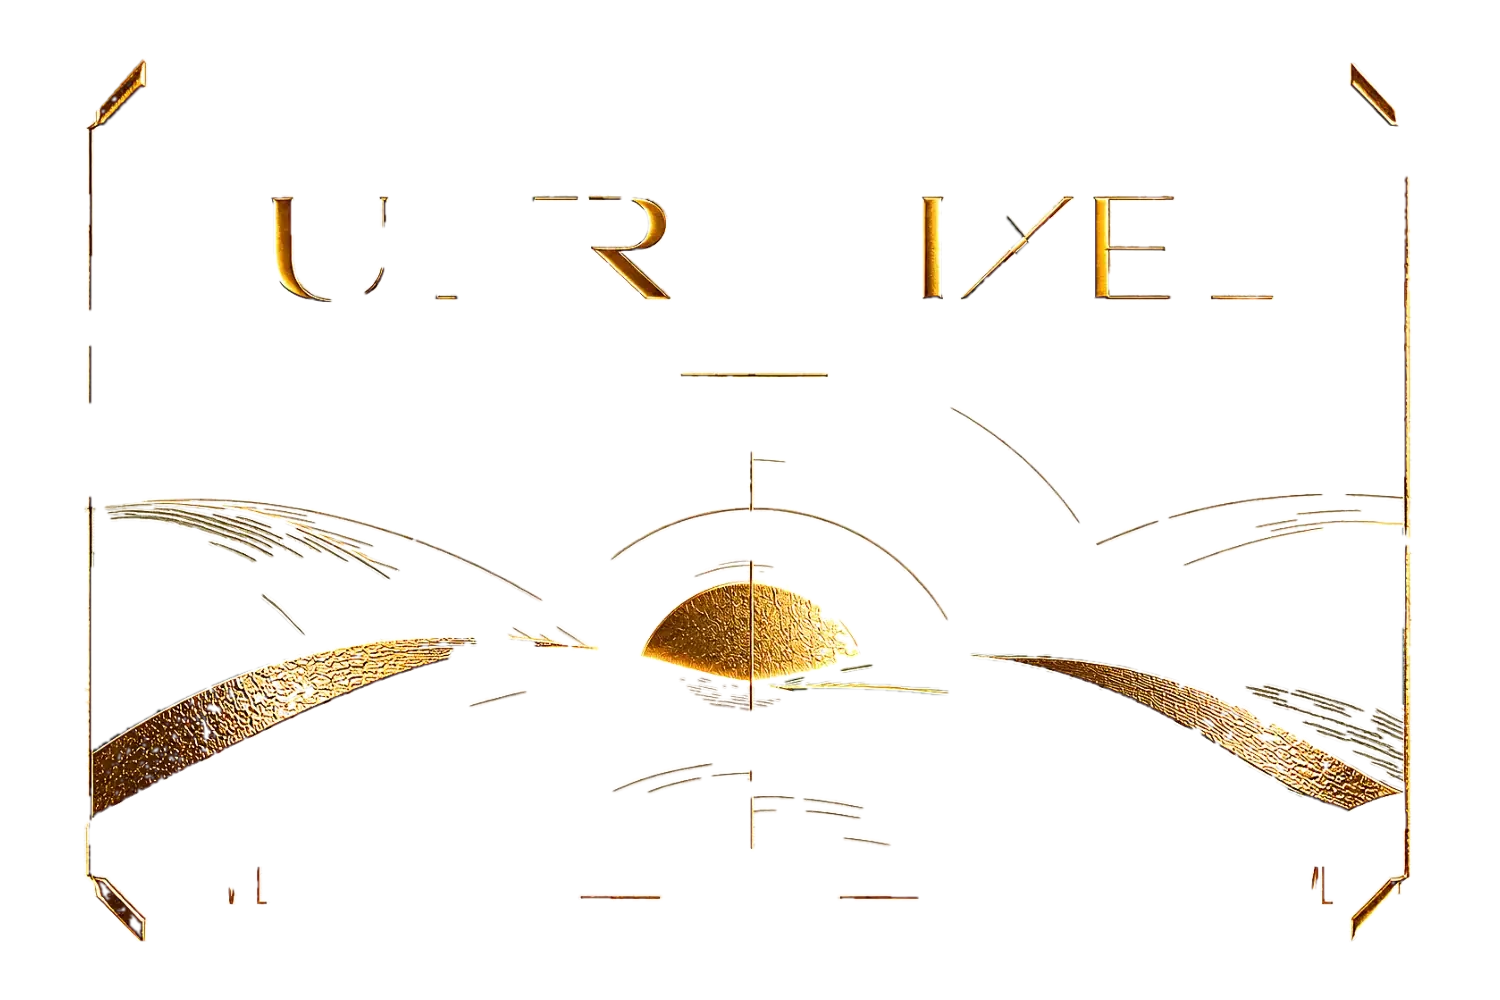
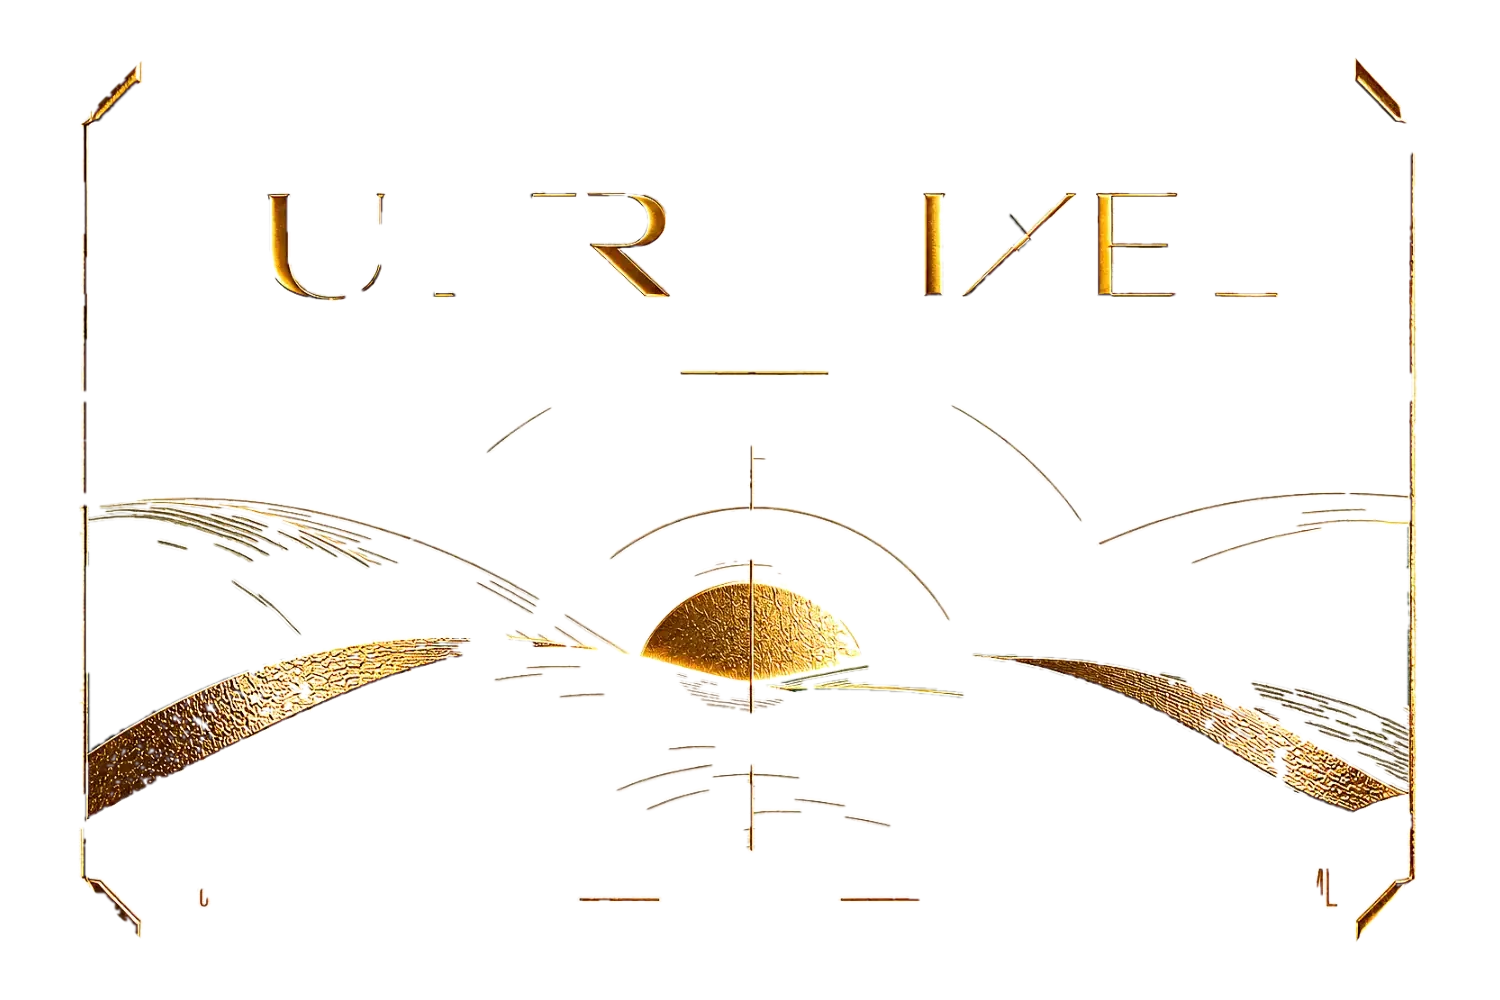
Geometric die for the home label: true rectangle with equal 45-degree chamfers
Claude-Session: https://claude.ai/code/session_01BG1W2YxVwjxrMvYbMgt4bm

diff --git a/de/index.html b/de/index.html
@@ -155,7 +155,7 @@
     <div class="over relit" id="relit"></div>
     <div class="over curve" id="curve"></div>
     <img class="over" id="matrix" data-src="/assets/matrix.webp" alt="" style="opacity:0">
-    <svg class="over" id="die" viewBox="0 0 1500 1000" style="overflow:visible;opacity:0;filter:drop-shadow(0 0 2px #1B2FBF) drop-shadow(0 0 9px #1B2FBF)"><path id="diep" pathLength="1" d="M76,127 L75,237 L70,256 L70,293 L75,299 L71,306 L70,322 L71,383 L75,386 L75,397 L71,399 L75,418 L71,420 L70,477 L76,506 L75,531 L70,568 L70,625 L75,634 L70,666 L75,721 L75,873 L137,940 L1349,941 L1358,935 L1396,893 L1403,893 L1406,896 L1407,891 L1425,877 L1425,724 L1429,356 L1425,285 L1428,280 L1424,274 L1423,133 L1406,112 L1396,110 L1354,63 L1052,63 L143,58 L101,107 L96,111 L88,113 Z" fill="none" stroke="#ffffff" stroke-width="3" stroke-linecap="round" vector-effect="non-scaling-stroke" stroke-dasharray="1" stroke-dashoffset="1"/></svg>
+    <svg class="over" id="die" viewBox="0 0 1500 1000" style="overflow:visible;opacity:0;filter:drop-shadow(0 0 2px #1B2FBF) drop-shadow(0 0 9px #1B2FBF)"><path id="diep" pathLength="1" d="M70,132 L70,867 L144,941 L1355,941 L1429,867 L1429,132 L1355,58 L144,58 Z" fill="none" stroke="#ffffff" stroke-width="3" stroke-linecap="round" vector-effect="non-scaling-stroke" stroke-dasharray="1" stroke-dashoffset="1"/></svg>
     <div id="stations"></div>
     <div class="ribbon" id="ribbon" style="background:linear-gradient(100deg,#7A5A1C,#C99A2E 25%,#FFF3C4 48%,#C99A2E 62%,#7A5A1C)"></div>
     <div class="sq" id="sq"></div>

diff --git a/en/index.html b/en/index.html
@@ -155,7 +155,7 @@
     <div class="over relit" id="relit"></div>
     <div class="over curve" id="curve"></div>
     <img class="over" id="matrix" data-src="/assets/matrix.webp" alt="" style="opacity:0">
-    <svg class="over" id="die" viewBox="0 0 1500 1000" style="overflow:visible;opacity:0;filter:drop-shadow(0 0 2px #1B2FBF) drop-shadow(0 0 9px #1B2FBF)"><path id="diep" pathLength="1" d="M76,127 L75,237 L70,256 L70,293 L75,299 L71,306 L70,322 L71,383 L75,386 L75,397 L71,399 L75,418 L71,420 L70,477 L76,506 L75,531 L70,568 L70,625 L75,634 L70,666 L75,721 L75,873 L137,940 L1349,941 L1358,935 L1396,893 L1403,893 L1406,896 L1407,891 L1425,877 L1425,724 L1429,356 L1425,285 L1428,280 L1424,274 L1423,133 L1406,112 L1396,110 L1354,63 L1052,63 L143,58 L101,107 L96,111 L88,113 Z" fill="none" stroke="#ffffff" stroke-width="3" stroke-linecap="round" vector-effect="non-scaling-stroke" stroke-dasharray="1" stroke-dashoffset="1"/></svg>
+    <svg class="over" id="die" viewBox="0 0 1500 1000" style="overflow:visible;opacity:0;filter:drop-shadow(0 0 2px #1B2FBF) drop-shadow(0 0 9px #1B2FBF)"><path id="diep" pathLength="1" d="M70,132 L70,867 L144,941 L1355,941 L1429,867 L1429,132 L1355,58 L144,58 Z" fill="none" stroke="#ffffff" stroke-width="3" stroke-linecap="round" vector-effect="non-scaling-stroke" stroke-dasharray="1" stroke-dashoffset="1"/></svg>
     <div id="stations"></div>
     <div class="ribbon" id="ribbon" style="background:linear-gradient(100deg,#7A5A1C,#C99A2E 25%,#FFF3C4 48%,#C99A2E 62%,#7A5A1C)"></div>
     <div class="sq" id="sq"></div>

diff --git a/fr/index.html b/fr/index.html
@@ -155,7 +155,7 @@
     <div class="over relit" id="relit"></div>
     <div class="over curve" id="curve"></div>
     <img class="over" id="matrix" data-src="/assets/matrix.webp" alt="" style="opacity:0">
-    <svg class="over" id="die" viewBox="0 0 1500 1000" style="overflow:visible;opacity:0;filter:drop-shadow(0 0 2px #1B2FBF) drop-shadow(0 0 9px #1B2FBF)"><path id="diep" pathLength="1" d="M76,127 L75,237 L70,256 L70,293 L75,299 L71,306 L70,322 L71,383 L75,386 L75,397 L71,399 L75,418 L71,420 L70,477 L76,506 L75,531 L70,568 L70,625 L75,634 L70,666 L75,721 L75,873 L137,940 L1349,941 L1358,935 L1396,893 L1403,893 L1406,896 L1407,891 L1425,877 L1425,724 L1429,356 L1425,285 L1428,280 L1424,274 L1423,133 L1406,112 L1396,110 L1354,63 L1052,63 L143,58 L101,107 L96,111 L88,113 Z" fill="none" stroke="#ffffff" stroke-width="3" stroke-linecap="round" vector-effect="non-scaling-stroke" stroke-dasharray="1" stroke-dashoffset="1"/></svg>
+    <svg class="over" id="die" viewBox="0 0 1500 1000" style="overflow:visible;opacity:0;filter:drop-shadow(0 0 2px #1B2FBF) drop-shadow(0 0 9px #1B2FBF)"><path id="diep" pathLength="1" d="M70,132 L70,867 L144,941 L1355,941 L1429,867 L1429,132 L1355,58 L144,58 Z" fill="none" stroke="#ffffff" stroke-width="3" stroke-linecap="round" vector-effect="non-scaling-stroke" stroke-dasharray="1" stroke-dashoffset="1"/></svg>
     <div id="stations"></div>
     <div class="ribbon" id="ribbon" style="background:linear-gradient(100deg,#7A5A1C,#C99A2E 25%,#FFF3C4 48%,#C99A2E 62%,#7A5A1C)"></div>
     <div class="sq" id="sq"></div>

diff --git a/index.html b/index.html
@@ -156,7 +156,7 @@
     <div class="over relit" id="relit"></div>
     <div class="over curve" id="curve"></div>
     <img class="over" id="matrix" data-src="/assets/matrix.webp" alt="" style="opacity:0">
-    <svg class="over" id="die" viewBox="0 0 1500 1000" style="overflow:visible;opacity:0;filter:drop-shadow(0 0 2px #1B2FBF) drop-shadow(0 0 9px #1B2FBF)"><path id="diep" pathLength="1" d="M76,127 L75,237 L70,256 L70,293 L75,299 L71,306 L70,322 L71,383 L75,386 L75,397 L71,399 L75,418 L71,420 L70,477 L76,506 L75,531 L70,568 L70,625 L75,634 L70,666 L75,721 L75,873 L137,940 L1349,941 L1358,935 L1396,893 L1403,893 L1406,896 L1407,891 L1425,877 L1425,724 L1429,356 L1425,285 L1428,280 L1424,274 L1423,133 L1406,112 L1396,110 L1354,63 L1052,63 L143,58 L101,107 L96,111 L88,113 Z" fill="none" stroke="#ffffff" stroke-width="3" stroke-linecap="round" vector-effect="non-scaling-stroke" stroke-dasharray="1" stroke-dashoffset="1"/></svg>
+    <svg class="over" id="die" viewBox="0 0 1500 1000" style="overflow:visible;opacity:0;filter:drop-shadow(0 0 2px #1B2FBF) drop-shadow(0 0 9px #1B2FBF)"><path id="diep" pathLength="1" d="M70,132 L70,867 L144,941 L1355,941 L1429,867 L1429,132 L1355,58 L144,58 Z" fill="none" stroke="#ffffff" stroke-width="3" stroke-linecap="round" vector-effect="non-scaling-stroke" stroke-dasharray="1" stroke-dashoffset="1"/></svg>
     <div id="stations"></div>
     <div class="ribbon" id="ribbon" style="background:linear-gradient(100deg,#7A5A1C,#C99A2E 25%,#FFF3C4 48%,#C99A2E 62%,#7A5A1C)"></div>
     <div class="sq" id="sq"></div>

diff --git a/src/proc4.py b/src/proc4.py
@@ -19,6 +19,10 @@ n,cc,st,_=cv2.connectedComponentsWithStats(lab0);k=1+np.argmax(st[1:,4]);lab0=(c
 cn,_=cv2.findContours(lab0,cv2.RETR_EXTERNAL,cv2.CHAIN_APPROX_NONE)
 poly=cv2.approxPolyDP(max(cn,key=cv2.contourArea),3.0,True)
 lab0[:]=0;cv2.fillPoly(lab0,[poly],1);lab0=cv2.erode(lab0,np.ones((3,3),np.uint8))
+# replace the traced outline with the geometric die: a true rectangle with equal 45-degree chamfers
+X0,Y0,X1,Y1,C=15,11,1524,991,82
+die=np.array([[X0+C,Y0],[X1-C,Y0],[X1,Y0+C],[X1,Y1-C],[X1-C,Y1],[X0+C,Y1],[X0,Y1-C],[X0,Y0+C]],np.int32)
+lab0[:]=0;cv2.fillPoly(lab0,[die],1)
 x,y,w,h=cv2.boundingRect(lab0);print('label',x,y,w,h,'poly pts',len(poly))
 # --- remove the appellation and side texts
 img=src0.copy()
@@ -84,7 +88,7 @@ scr=np.clip(src.astype(np.float32)*.88+np.array([150,190,170.])*(bev*.6+sheen*.1
 Image.fromarray(paper[...,::-1]).save('a/sheet.jpg',quality=84)
 save('paper.webp',paper,la);save('matrix.webp',paper,1-la)
 save('gold.webp',src,ga*la);save('screen.webp',scr,sa*la);save('final.webp',src,la,90)
-cnts,_=cv2.findContours(lab,cv2.RETR_EXTERNAL,cv2.CHAIN_APPROX_NONE);c=cv2.approxPolyDP(max(cnts,key=cv2.contourArea),1.0,True)[:,0]
+cnts,_=cv2.findContours(lab,cv2.RETR_EXTERNAL,cv2.CHAIN_APPROX_NONE);c=cv2.approxPolyDP(max(cnts,key=cv2.contourArea),2.0,True)[:,0]
 open('a/die.txt','w').write('M'+' L'.join(f'{p[0]},{p[1]}' for p in c)+' Z');print('die pts',len(c))
 def over(b,f,a):a=a[...,None];return (b*(1-a)+f*a)
 srcf=src.astype(np.float32)
